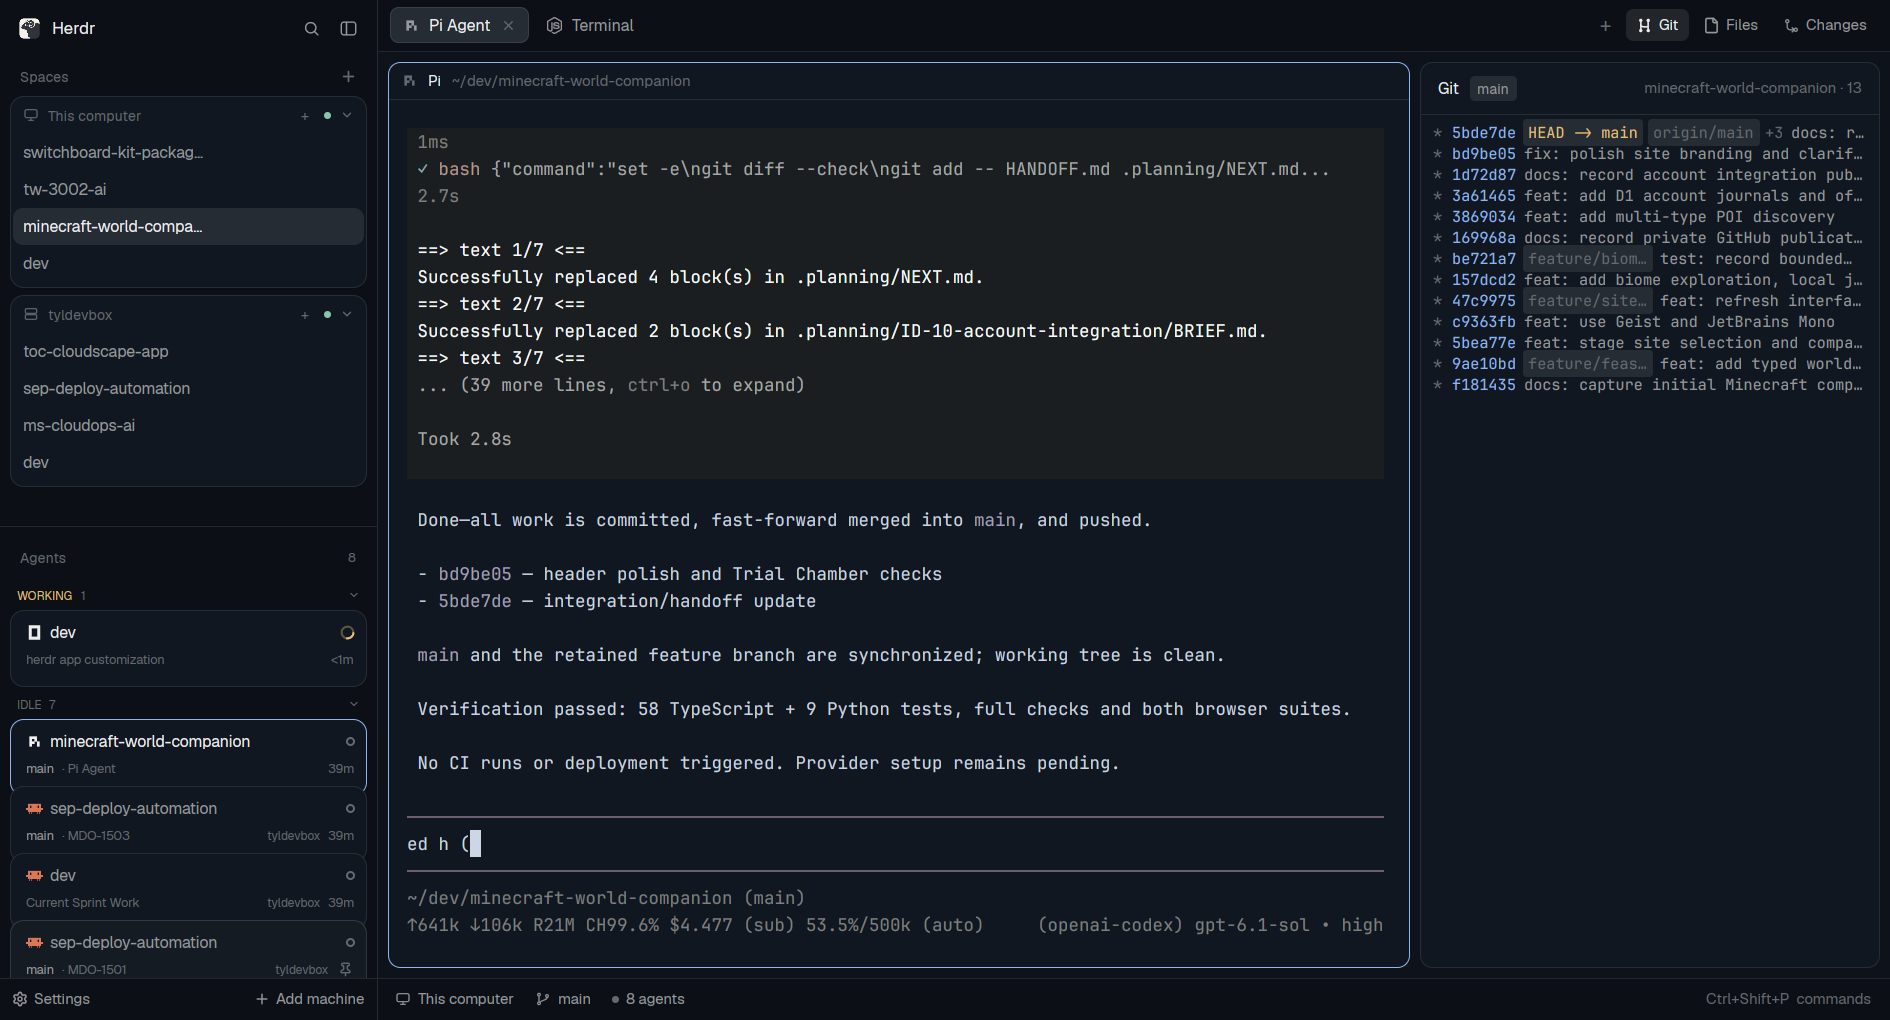
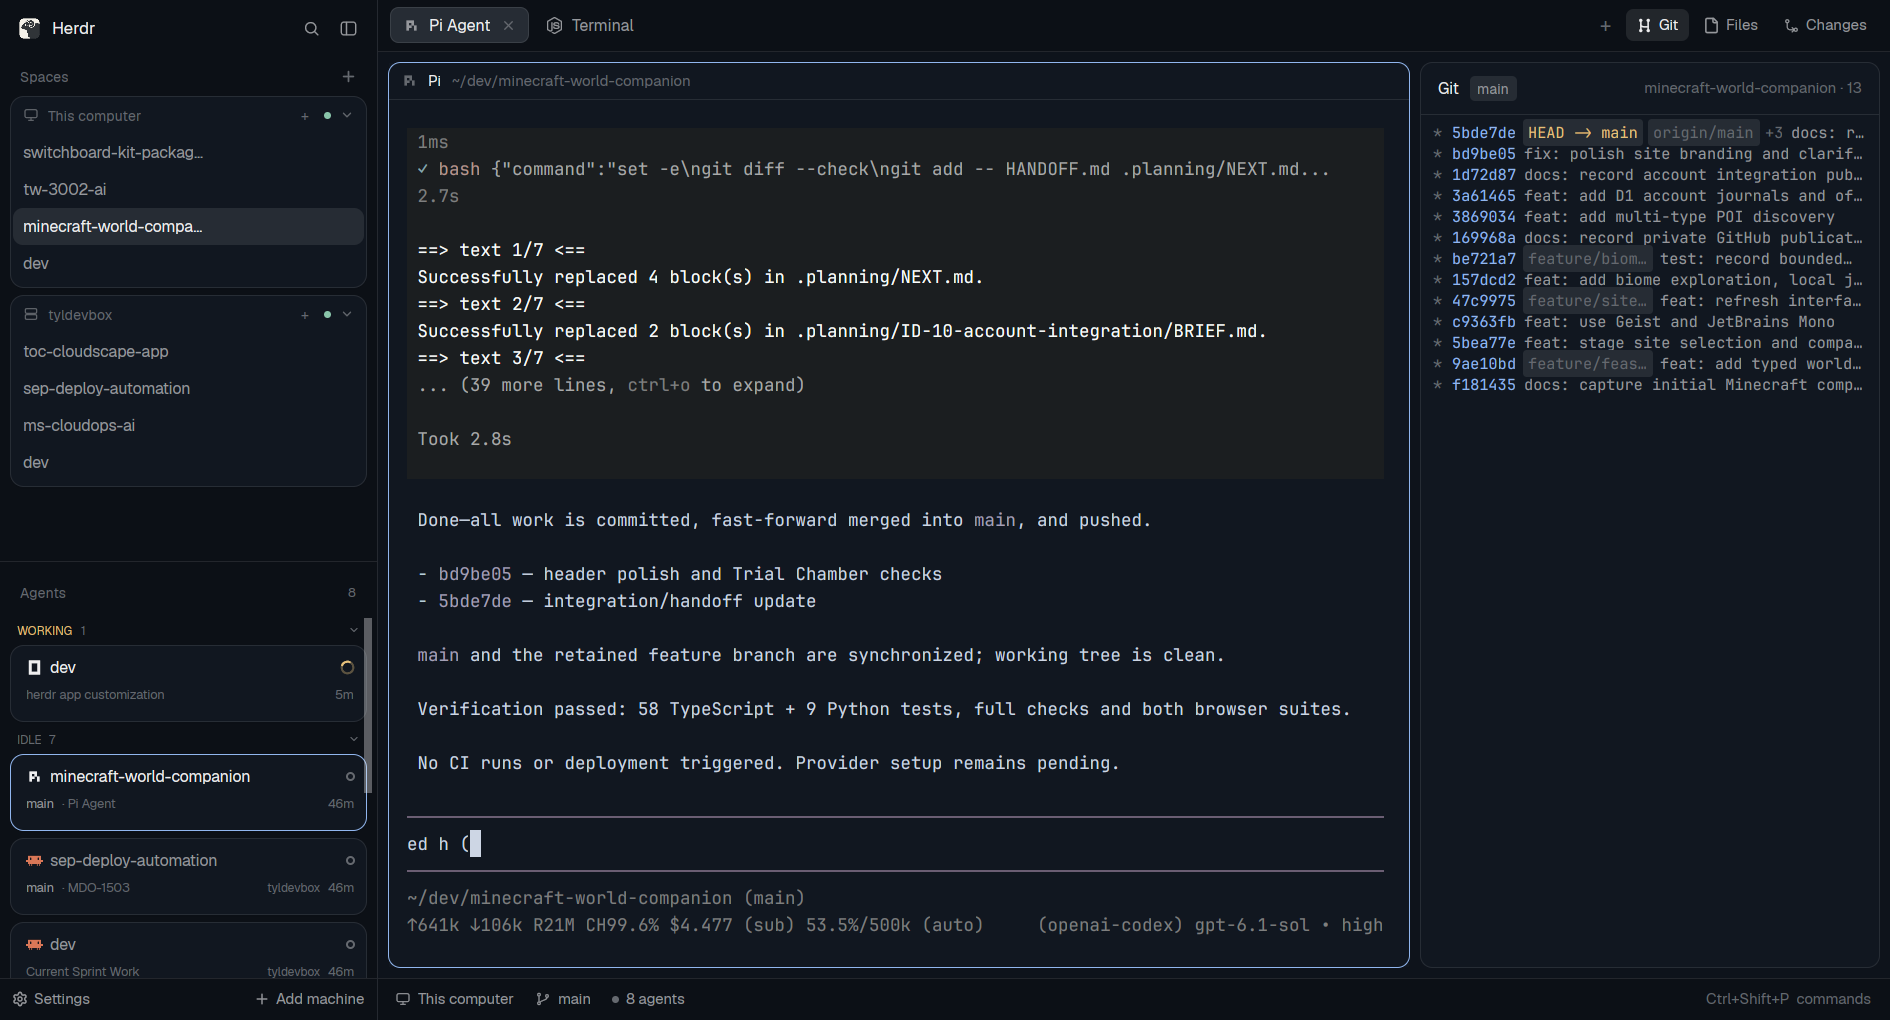
Agents: separate the cards so the list scrolls again

diff --git a/mods/agents-cards/main.js b/mods/agents-cards/main.js
@@ -218,11 +218,10 @@ export default class AgentCards extends View {
     const name = a.space_name || a.title || a.program?.name || a.address;
     return v_flex()
       .id(`card-${a.address}`)
-      .relative()
       .w_full()
       .h(62)
       .flex_none()
-      .mt(i === 0 ? 2 : -8)
+      .mt(i === 0 ? 2 : 6)
       .rounded(11)
       .overflow_hidden()
       .bg(t.background)
@@ -230,14 +229,14 @@ export default class AgentCards extends View {
       .border_color(a.focused ? t.accent : hov ? t.input : t.border)
       .shadow_2xs()
       .cursor_pointer()
+      .hover((s) => s.bg(t.hover))
       .on_hover((on, cx) => {
         if (on) this.hovered = a.address;
         else if (this.hovered === a.address) this.hovered = null;
         cx.notify();
       })
       .on_click(() => run("pane.focus", { pane: a.pane }))
-      .when(hov, (el) => el.child(div().absolute().top(0).left(0).size_full().bg(t.hover).opacity(0.3)))
-      .child(v_flex().relative().flex_1().min_w(0).pl(12).pr(9).pt(7)
+      .child(v_flex().flex_1().min_w(0).pl(12).pr(9).pt(7)
         .child(h_flex().w_full().gap(6).items_center()
           .when(Boolean(pic), (el) => el.child(div().flex_none().child(pic)))
           .child(div().flex_1().min_w(0).truncate().text_size(12.5).font_semibold().text_color(idle ? t.muted : t.foreground).child(name))

diff --git a/RECIPE.md b/RECIPE.md
@@ -34,8 +34,8 @@ mods draw a compact rail below 160 px.
   appears only while a row is hovered, or on the shown space. A machine in
   `needs_login` shows **needs login** in the theme's accent colour instead of
   the state word.
-- Below the spaces, **Agents** is a deck of cards, one per agent, 62 px tall
-  (54 px visible: each card tucks 8 px under the one above). A card is
+- Below the spaces, **Agents** is a stack of cards, one per agent, 62 px tall
+  and 6 px apart — the same rhythm as the machine cards. A card is
   `background` (the same colour as the Git and terminal panels, not a grey
   surface), 11 px radius, a 1 px `border` and a faint 2xs shadow, clipped by
   the rounded edge.
@@ -214,6 +214,10 @@ under `machines.folded.v2`, and `agents-cards` stores section folds under
   more pushes the subject out. Widen `panel` rather than raising the cap.
 - **`git-graph` needs `git` on PATH** and caps the log at 300 commits. It makes
   no network calls and writes no files.
+- **Do not overlap the agent cards.** Tucking them under each other with
+  `mt(-8)` collapses the list's scroll extent: the panel then clips instead of
+  scrolling and no scrollbar appears. Keep them separated like the machine
+  cards, or wrap each in a fixed-height box.
 - **No repo is normal.** `~/dev` and any non-repo folder show "Not a git
   repository" by design.
 - **`localStorage` key `panels`** holds each space's last panel; deleting it
